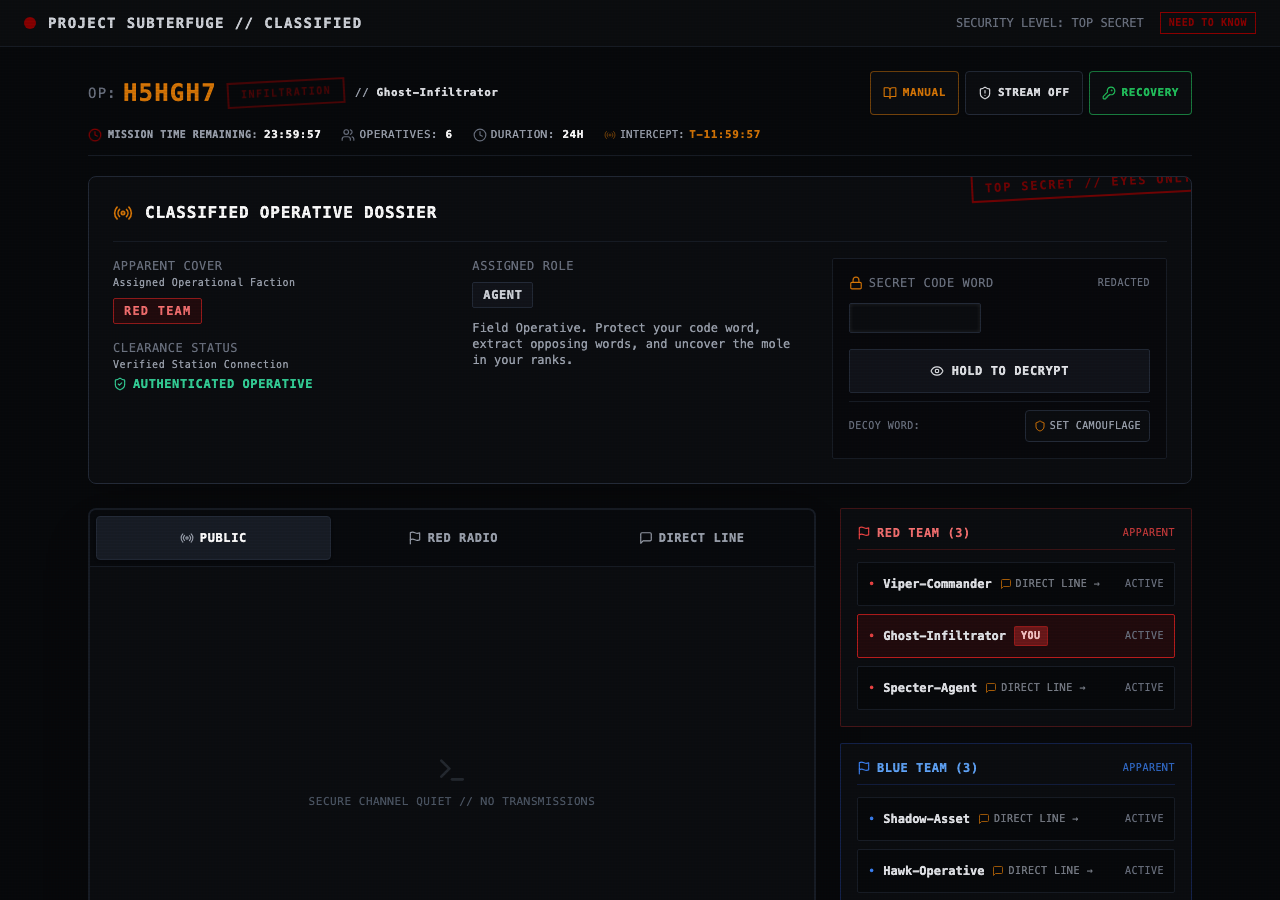
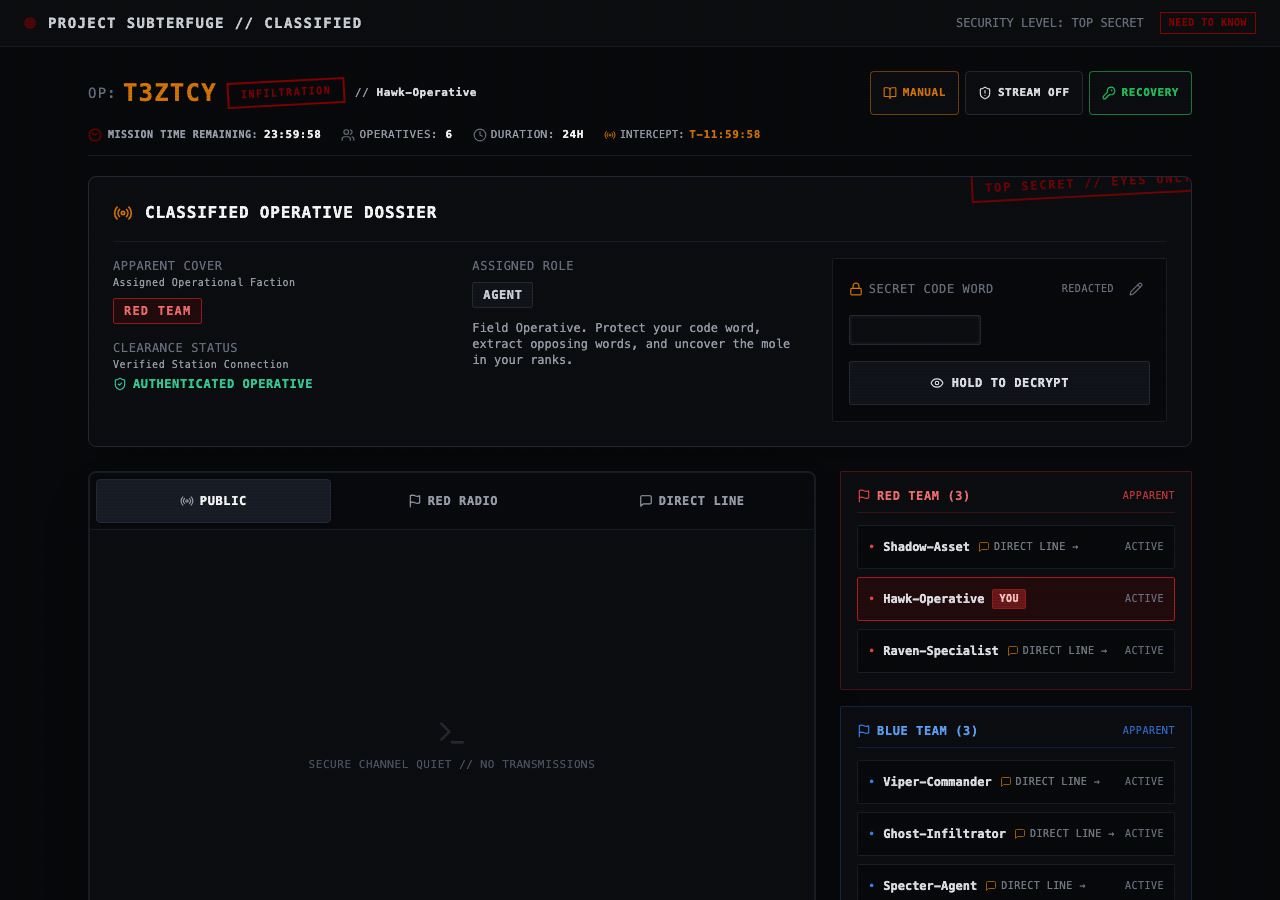
fix(espionage): ensure resting and decrypted dossier is 100% identical before and after applying decoy word

diff --git a/src/app/room/[code]/page.tsx b/src/app/room/[code]/page.tsx
@@ -33,6 +33,7 @@ import {
   Link as LinkIcon,
   KeyRound,
   Bell,
+  Pencil,
 } from "lucide-react";
 
 export default function RoomPage() {
@@ -2591,9 +2592,24 @@ export default function RoomPage() {
                     <span className="text-xs text-gray-500 uppercase tracking-wider flex items-center gap-1.5">
                       <Lock className="w-3.5 h-3.5 text-classified-amber" /> Secret Code Word
                     </span>
-                    <span className="text-nano text-gray-500 uppercase">
-                      {isDecrypted ? "DECRYPTED" : "REDACTED"}
-                    </span>
+                    <div className="flex items-center gap-2">
+                      <span className="text-nano text-gray-500 uppercase">
+                        {isDecrypted ? "DECRYPTED" : "REDACTED"}
+                      </span>
+                      <button
+                        id="configure-spoof-word-btn"
+                        type="button"
+                        onClick={() => {
+                          setSpoofModalInput(spoofWord || "");
+                          setIsSpoofModalOpen(true);
+                        }}
+                        aria-label="Edit Code Word"
+                        title="Edit Code Word"
+                        className="text-gray-500 hover:text-classified-amber p-1 rounded transition-colors cursor-pointer min-w-[28px] min-h-[28px] flex items-center justify-center"
+                      >
+                        <Pencil className="w-3.5 h-3.5" />
+                      </button>
+                    </div>
                   </div>
 
                   <div className="py-2 min-h-[40px] flex items-center">
@@ -2681,25 +2697,6 @@ export default function RoomPage() {
                       </>
                     )}
                   </button>
-
-                  {/* Camouflage Spoof Word Quick Control */}
-                  <div className="pt-2 border-t border-carbon-800 flex items-center justify-between">
-                    <span className="text-nano text-gray-500 uppercase tracking-wider">
-                      DECOY WORD:
-                    </span>
-                    <button
-                      id="configure-spoof-word-btn"
-                      type="button"
-                      onClick={() => {
-                        setSpoofModalInput(spoofWord || "");
-                        setIsSpoofModalOpen(true);
-                      }}
-                      className="text-nano text-gray-400 hover:text-classified-amber flex items-center gap-1 font-mono uppercase px-2 py-1 bg-carbon-900 hover:bg-carbon-850 border border-carbon-700 rounded transition-colors cursor-pointer min-h-[32px]"
-                    >
-                      <Shield className="w-3 h-3 text-classified-amber" />
-                      <span>{spoofWord ? `DECOY: ${spoofWord}` : "SET CAMOUFLAGE"}</span>
-                    </button>
-                  </div>
                 </div>
               </div>
             </div>
@@ -3971,7 +3968,7 @@ export default function RoomPage() {
         </div>
       )}
 
-      {/* CAMOUFLAGE / SPOOF DISPLAY WORD CONFIGURATION MODAL */}
+      {/* STATION CODE WORD CONFIGURATION MODAL */}
       {isSpoofModalOpen && (
         <div
           id="spoof-word-modal"
@@ -3983,30 +3980,28 @@ export default function RoomPage() {
             if (e.target === e.currentTarget) setIsSpoofModalOpen(false);
           }}
         >
-          <div className="bg-carbon-900 border-2 border-classified-amber rounded-lg max-w-md w-full p-5 sm:p-6 shadow-2xl font-mono space-y-4">
+          <div className="bg-carbon-900 border-2 border-carbon-700 rounded-lg max-w-md w-full p-5 sm:p-6 shadow-2xl font-mono space-y-4">
             <div className="flex items-center gap-3">
-              <div className="p-2 bg-amber-950/80 border border-amber-800 rounded">
-                <Shield className="w-6 h-6 text-classified-amber" />
+              <div className="p-2 bg-carbon-950 border border-carbon-800 rounded">
+                <Lock className="w-5 h-5 text-classified-amber" />
               </div>
               <div>
                 <h3 id="spoof-modal-title" className="text-sm sm:text-base font-bold text-white uppercase tracking-wider">
-                  Tactical Decoy // Display Word
+                  Station Code Word
                 </h3>
-                <span className="text-nano text-classified-amber uppercase tracking-widest font-bold">
-                  ZERO VISUAL TELL // ANTI-COERCION
+                <span className="text-nano text-gray-500 uppercase tracking-widest font-bold">
+                  TERMINAL RECORD
                 </span>
               </div>
             </div>
 
             <p className="text-xs text-gray-300 leading-relaxed">
-              Configure the code word to display on this station when holding to decrypt. This allows you to feed
-              false intelligence or protect your authentic word against physical screen inspections. The display word
-              will render with <strong className="text-white">ZERO visual tells</strong>.
+              Verify or update the operational code word assigned to this station.
             </p>
 
             <div className="space-y-1.5">
               <label htmlFor="spoof-word-input" className="block text-micro text-gray-400 uppercase tracking-wider font-bold">
-                Display Code Word:
+                Assigned Code Word:
               </label>
               <input
                 id="spoof-word-input"
@@ -4018,7 +4013,7 @@ export default function RoomPage() {
                 onKeyDown={(e) => {
                   if (e.key === "Enter") handleSaveSpoofWord();
                 }}
-                placeholder="ENTER DISPLAY CODE WORD"
+                placeholder="ENTER CODE WORD"
                 className="w-full bg-carbon-950 border border-carbon-700 focus:border-classified-amber text-white font-mono text-sm uppercase tracking-widest px-3 py-2.5 rounded outline-none"
               />
             </div>
@@ -4038,7 +4033,7 @@ export default function RoomPage() {
                 onClick={handleSaveSpoofWord}
                 className="min-h-[44px] px-4 py-2 bg-classified-amber text-black hover:bg-amber-400 font-mono font-bold uppercase text-xs tracking-wider rounded transition-colors cursor-pointer active:scale-95"
               >
-                SET DISPLAY WORD
+                CONFIRM CODE WORD
               </button>
             </div>
           </div>

diff --git a/tests/e2e/slice13-playtest-improvements.spec.ts b/tests/e2e/slice13-playtest-improvements.spec.ts
@@ -73,6 +73,9 @@ test.describe("Slice 13: Playtesting Enhancements & Dev Mode Controls", () => {
     // Mole screen displays symmetrical cover identity matching innocent teammates (AGENT)!
     await expect(molePage.locator("#self-role")).toHaveText("AGENT");
     await expect(molePage.locator("#self-word-redacted")).toBeVisible();
+    // Verify no decoy tells exist on screen
+    await expect(molePage.getByText("DECOY WORD:")).not.toBeVisible();
+    await expect(molePage.getByText("SET CAMOUFLAGE")).not.toBeVisible();
 
     // Press and Hold Decrypt: Reveals assigned word, but role remains AGENT (zero mole tell!)
     await molePage.dispatchEvent("#decrypt-word-btn", "mousedown");
@@ -90,6 +93,14 @@ test.describe("Slice 13: Playtesting Enhancements & Dev Mode Controls", () => {
     await molePage.fill("#spoof-word-input", "DECOYWORD");
     await molePage.click("#save-spoof-word-btn");
     await expect(molePage.locator("#spoof-word-modal")).not.toBeVisible();
+
+    // STRICT ANTI-TELL CHECK: Resting screen must be 100% IDENTICAL before and after decoy applied!
+    await expect(molePage.locator("#self-role")).toHaveText("AGENT");
+    await expect(molePage.locator("#self-word-redacted")).toBeVisible();
+    await expect(molePage.getByText("DECOY WORD:")).not.toBeVisible();
+    await expect(molePage.getByText("DECOY:")).not.toBeVisible();
+    await expect(molePage.getByText("SET CAMOUFLAGE")).not.toBeVisible();
+    await expect(molePage.locator("#configure-spoof-word-btn")).not.toContainText("DECOY");
 
     // Press and Hold Decrypt: Now reveals DECOYWORD with zero visual tell!
     await molePage.dispatchEvent("#decrypt-word-btn", "mousedown");
